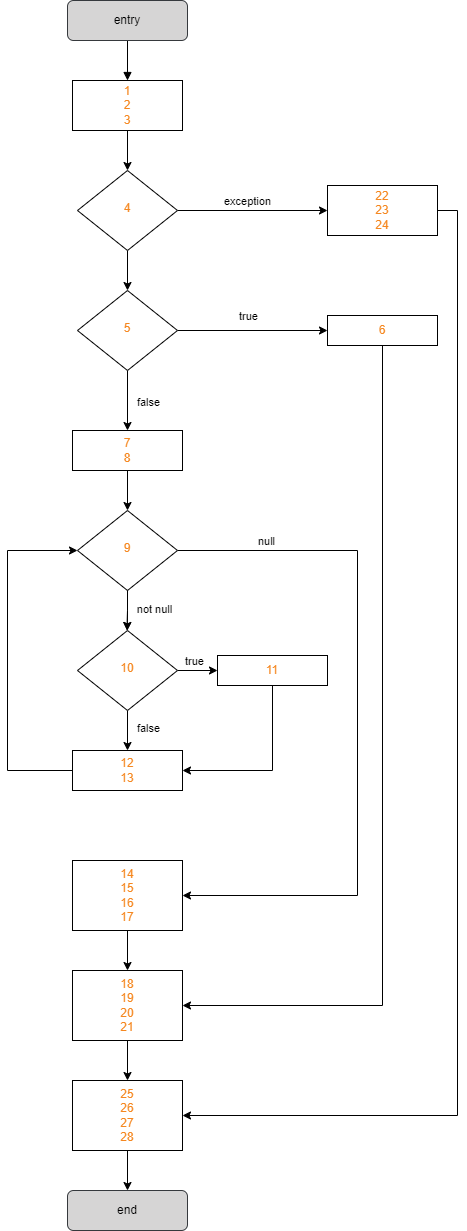
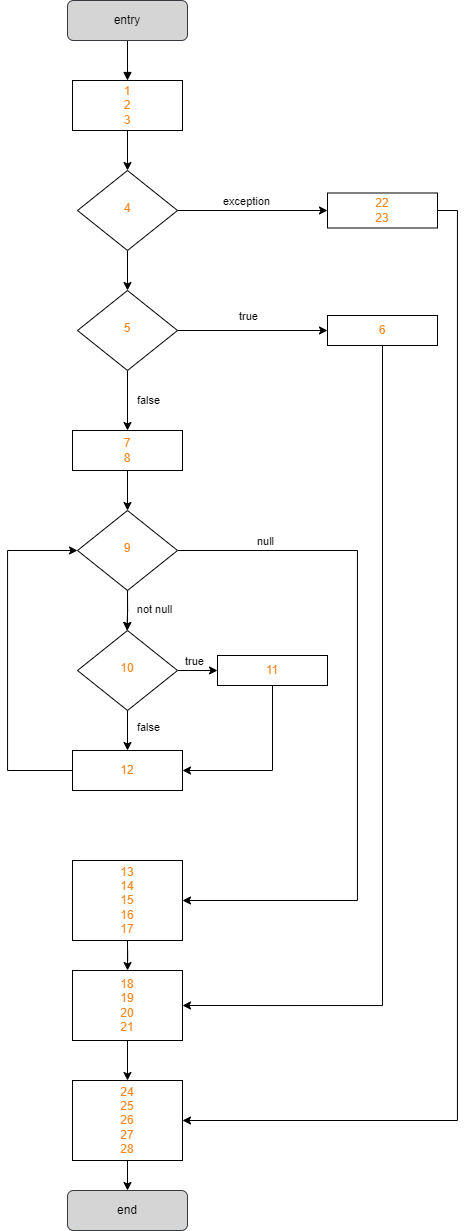
Fixed some mistakes

diff --git a/assignments/assignment8.md b/assignments/assignment8.md
@@ -365,18 +365,29 @@ After identifying and classifying the occurrences of all variables in the softwa
 
 ![handleStartPause def-use graph](./images/dug_handleStartPause.png)
 
+Note that in the `for` loop, we assume there is no **p-use** of `p`, given that this loop is equivalent to the following form:
+
+```java
+for (int i = 0; i < this.arPrj; i++) {
+    Project p = this.arPrj[i];
+    // statements using p
+}
+```
+
+Although, there is a **def** of the variable `p`, and a **p-use** of the `this.arPrj` variable in that predicate.
+
 The **def-use pairs** identified for the variable `prj` are:
 
 | pair id | def |  use  |                        path                       |
 |:-------:|:---:|:-----:|:-------------------------------------------------:|
 |    1    |  1  |   2   |                       <1,2>                       |
 |    2    |  1  |   6   |                   <1,2,3,4,5,6>                   |
-|    3    |  1  |   16  |      <1,2,3,4,5,7,8,9,10,11,12,13,9,14,15,16>     |
-|    4    |  1  |   16  |       <1,2,3,4,5,7,8,9,10,12,13,9,14,15,16>       |
-|    5    |  1  |   16  |             <1,2,3,4,5,7,8,9,14,15,16>            |
-|    6    |  1  |   19  | <1,2,3,4,5,7,8,9,10,11,12,13,9,14,15,16,17,18,19> |
-|    7    |  1  |   19  |   <1,2,3,4,5,7,8,9,10,12,13,9,14,15,16,17,18,19>  |
-|    8    |  1  |   19  |        <1,2,3,4,5,7,8,9,14,15,16,17,18,19>        |
+|    3    |  1  |   16  |      <1,2,3,4,5,7,8,9,10,11,12,9,13,14,15,16>     |
+|    4    |  1  |   16  |       <1,2,3,4,5,7,8,9,10,12,9,13,14,15,16>       |
+|    5    |  1  |   16  |          <1,2,3,4,5,7,8,9,13,14,15,16>            |
+|    6    |  1  |   19  | <1,2,3,4,5,7,8,9,10,11,12,9,13,14,15,16,17,18,19> |
+|    7    |  1  |   19  |   <1,2,3,4,5,7,8,9,10,12,9,13,14,15,16,17,18,19>  |
+|    8    |  1  |   19  |     <1,2,3,4,5,7,8,9,13,14,15,16,17,18,19>        |
 |    9    |  1  |   19  |                <1,2,3,4,5,6,18,19>                |
 |    10   |  1  | (2,T) |                       <1,2>                       |
 |    11   |  1  | (2,F) |                       <1,2>                       |
@@ -393,13 +404,14 @@ The **def-use pairs** identified for the variable `p` are:
 
 The **def-use pairs** identified for the variable `this.arrPrj` are:
 
-| pair id |  def  | use |        path       |
-|:-------:|:-----:|:---:|:-----------------:|
-|    1    | entry |  9  | <1,2,3,4,5,7,8,9> |
+| pair id |  def  |   use   |           path          |
+|:-------:|:-----:|:-------:|:-----------------------:|
+|    1    | entry |  (9,T)  |   <1,2,3,4,5,7,8,9,10>  |
+|    2    | entry |  (9,F)  | <1,2,3,4,5,7,8,9,13,14> |
 
 The **def-use pairs** identified for the variable `this.currentProject` are:
 
-// TODO: perguntar o que acontece neste caso, em que só tem defs e nenhum use
+The variable `this.currentProject` has no **def-use pairs** as it has no uses along the method, only definitions.
 
 The **def-use pairs** identified for the variable `ex` are:
 
@@ -409,27 +421,27 @@ The **def-use pairs** identified for the variable `ex` are:
 
 To satisfy the **all-defs** criteria, we must test, for example, the paths in the following pairs:
 
-| **variable** | `prj` | `p` | `this.arPrj` | `this.currentProject` | `ex` |
-|:------------:|:-----:|:---:|:------------:|:---------------------:|:----:|
-| **pair ids** |   2   |  1  |       1      |                       |   1  |
+| **variable** | `prj` | `p` | `this.arPrj` | `ex` |
+|:------------:|:-----:|:---:|:------------:|:----:|
+| **pair ids** |   2   |  1  |       1      |   1  |
 
 To satisfy the **all-c-uses** criteria, we must test, for example, the paths in the following pairs:
 
-| **variable** |  `prj`  | `p` | `this.arPrj` | `this.currentProject` | `ex` |
-|:------------:|:-------:|:---:|:------------:|:---------------------:|:----:|
-| **pair ids** | 1,2,5,9 |  1  |       1      |                       |   1  |
+| **variable** |  `prj`  | `p` | `this.arPrj` | `ex` |
+|:------------:|:-------:|:---:|:------------:|:----:|
+| **pair ids** | 1,2,5,9 |  1  |       -      |   1  |
 
 To satisfy the **all-p-uses** criteria, we must test, for example, the paths in the following pairs:
 
-| **variable** |    `prj`    | `p` | `this.arPrj` | `this.currentProject` | `ex` |
-|:------------:|:-----------:|:---:|:------------:|:---------------------:|:----:|
-| **pair ids** | 10,11,12,13 | 2,3 |       -      |                       |   -  |
+| **variable** |    `prj`    | `p` | `this.arPrj` | `ex` |
+|:------------:|:-----------:|:---:|:------------:|:----:|
+| **pair ids** | 10,11,12,13 | 2,3 |     1,2      |   -  |
 
 To satisfy the **all-uses** criteria, we must test, for example, the paths in the following pairs:
 
-| **variable** |        `prj`        |  `p`  | `this.arPrj` | `this.currentProject` | `ex` |
-|:------------:|:-------------------:|:-----:|:------------:|:---------------------:|:----:|
-| **pair ids** | 1,2,5,9,10,11,12,13 | 1,2,3 |       1      |                       |   1  |
+| **variable** |        `prj`        |  `p`  | `this.arPrj` | `ex` |
+|:------------:|:-------------------:|:-----:|:------------:|:----:|
+| **pair ids** | 1,2,5,9,10,11,12,13 | 1,2,3 |     1,2      |   1  |
 
 #### Unit Tests
 
@@ -443,7 +455,7 @@ More specifically:
 - `prj` **pair ids** 5 and 13 are covered when the `prj` project is idle (tested in method `testHandleStartPause_PrjIdle_ShouldStartIt`)
 - `p` **pair ids** 1 and 2 are covered when the `prj` project is idle and the `p` project is running (tested in method `testHandleStartPause_PrjIdlePRunning_ShouldPauseP`)
 - `p` **pair id** 3 is covered when the `prj` project is idle and the `p` project is idle as well (tested in method `testHandleStartPause_PrjIdlePIdle_ShouldStartPrj`)
-- `this.arPrj` **pair id** 1 is covered when the `prj` project is idle (tested in method `testHandleStartPause_PrjIdle_ShouldStartIt`)
+- `this.arPrj` **pair ids** 1 and 2 are covered when the `for` loop is executed, this is, `this.arPrj` is not empty, which happens in all the tests
 - `ex` **pair id** 1 is covered when an exception occurs in the processes of starting/pausing a project (tested in method `testHandleStartPause_UponException_ShouldCatchIt`)
 
 In these tests, we verify that the state of each project is correctly updated and that the GUI internal methods are invoked the right number of times.
